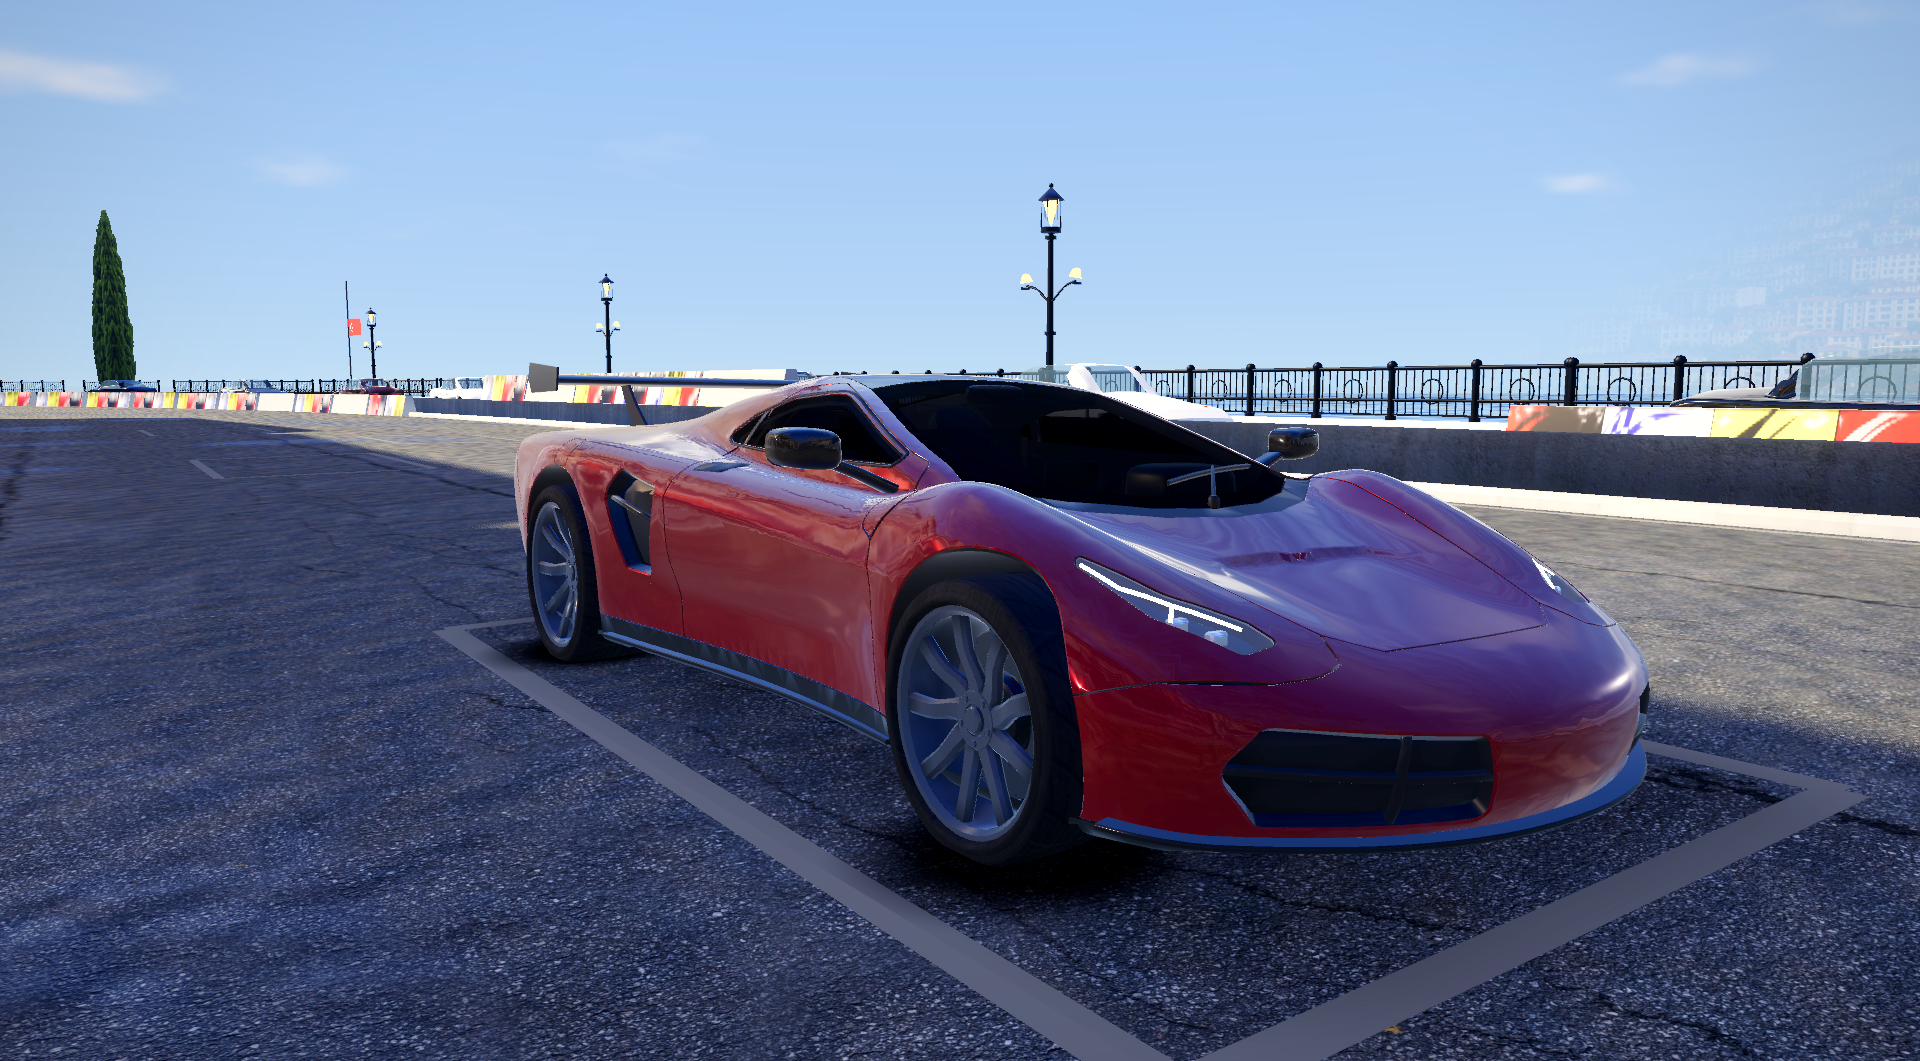
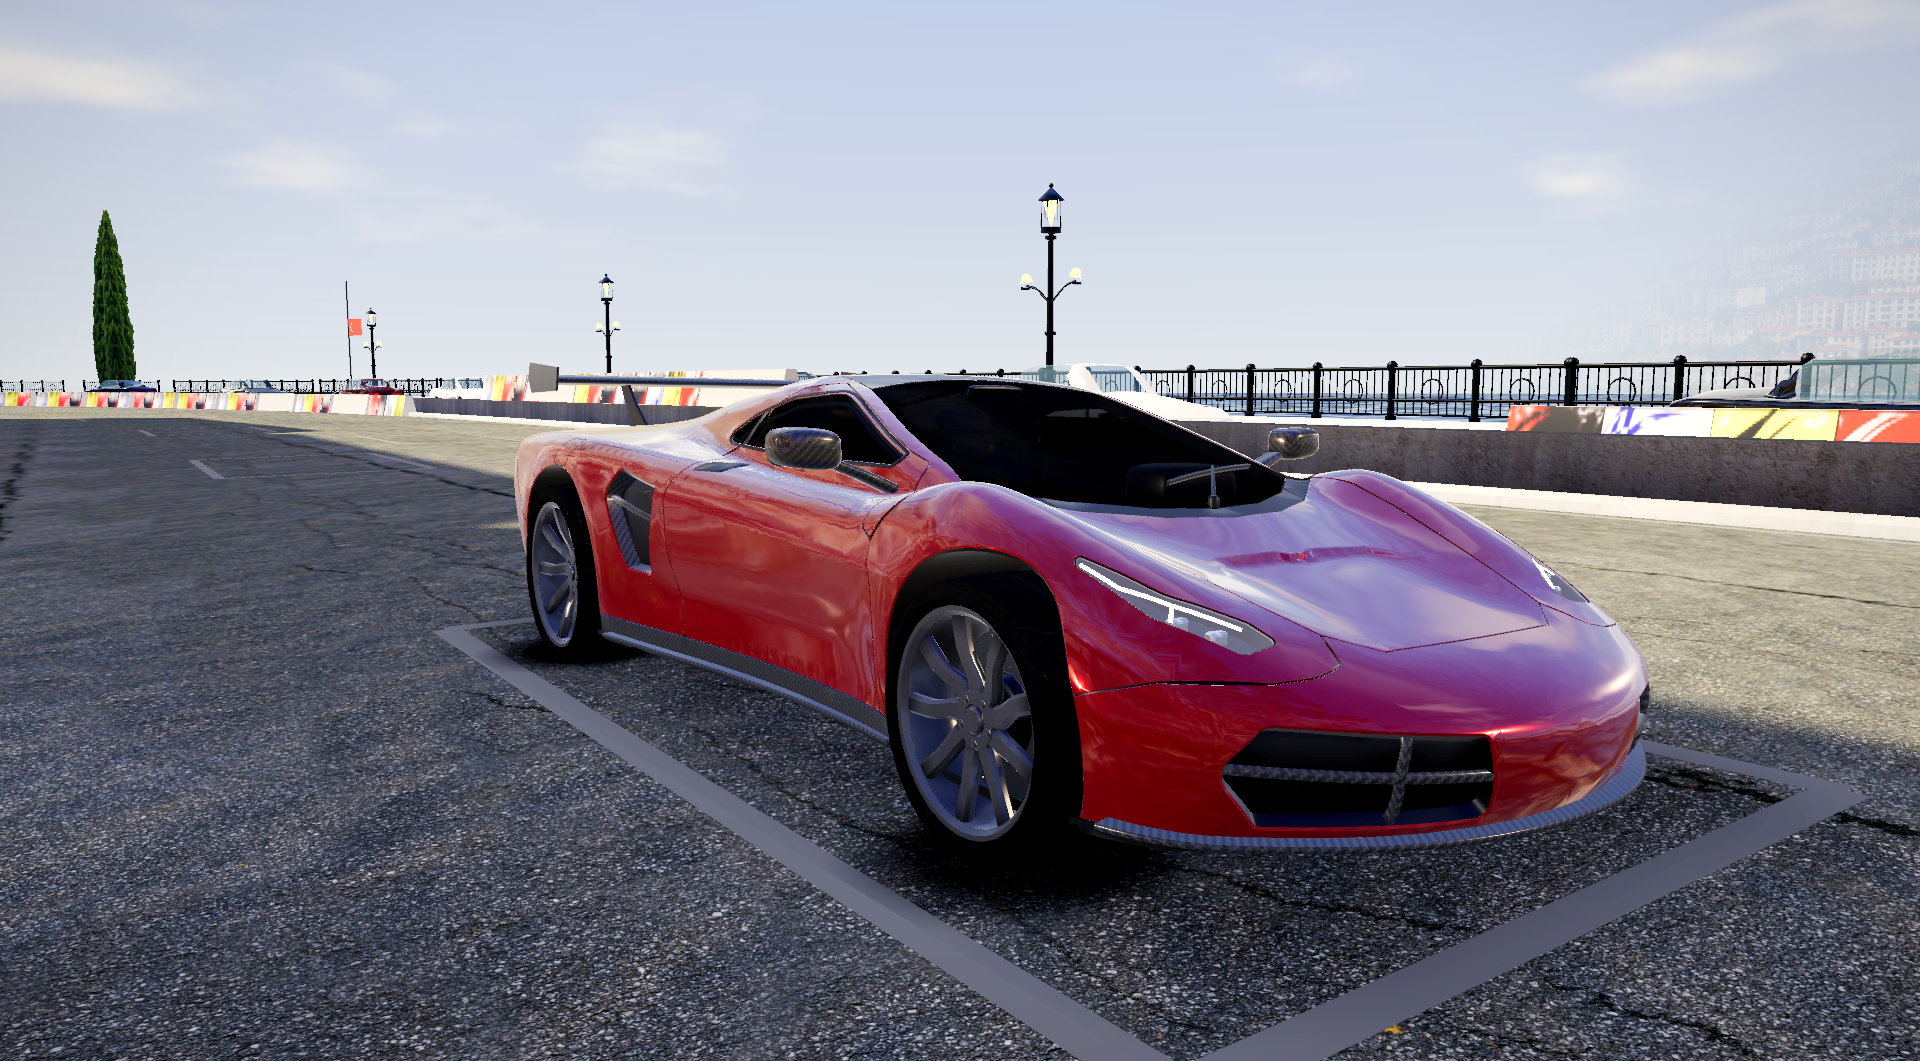
Day look: ACES white 6, real depth fog with aerial haze, hazy sky, street-dark ground half, dry asphalt and kerb specular per hour, warm car fill and rim, day fill direction fixed, sea per hour, neutral rims, mirror blur 5 taps
- TimeOfDay: tonemap white, glow bloom, fog density/aerial/sun scatter, mild grade, car reflection strength and sea uniforms per hour (night keeps the shipped values)
- wet_asphalt: specular_scale (day 0.3), dry roughness follows the macro tone, 9 -> 5 mirror taps at double spacing
- paving: specular_scale and a wet film (authored 0.8 = night)
- day_bounce: the warm fill now travels toward the sun side (it lit the sunlit faces)
- car materials: neutral rim albedo, metallic 0.75, crisper streak; tyre specular 0.25
- Evidence: ortakoy_benchmark day and night re-captured (dev PC, not phone numbers)

diff --git a/docs/status/OVERNIGHT_HANDOFF.md b/docs/status/OVERNIGHT_HANDOFF.md
@@ -1,0 +1,30 @@
+# Overnight handoff (2026-11-28)
+
+Brief: `docs/status/OVERNIGHT_MASTER.md`. Lead: Opus 5.5. Release candidate branch: `release/rc-2026-11-28`
+(pushed; worktree `.claude/worktrees/fable-graphics-visual-quality-105c41`).
+
+## Done and verified
+- 23:47 fetch; PR #8 (`integration/chatgpt-gameplay-2026-11-27`, one commit 31d04dc on a4c30a1) checked: mergeable,
+  its CI green (logic-tests and asset-validation, runs 46065339129 / 46065346897).
+- PR #8 merged once into the RC (d02fd4e). Local full suite: 355 tests, 0 failed; `tools/verify_test_evidence.py`
+  verified 355; asset manifest 657 records, 0 failing. Commits ce4b242, then the uid files.
+- Graphics audit (6 Opus auditors, each checked by an Opus verifier): digest kept outside the repo; the corrected
+  proposals are what the work packages implement.
+
+## In progress
+- Lead: day/sunset lighting (ACES white 6, real depth fog, hazy sky, street-dark ground half, warm car fill/rim,
+  day fill direction bug), dry asphalt and kerb specular per hour, mirror blur 9 -> 5 taps, sea colours per hour,
+  neutral rims, tyre sheen, paint street reflection per hour.
+- Haiku packages (worktrees `.claude/worktrees/wp-<key>`, branches `wp/<key>`), each reviewed by a Haiku reviewer and
+  an Opus lead reviewer: arch (photo rows: textured party walls, roofs, eaves, glass gloss, bridge), camera (framing,
+  orbit, FOV cap, nitro punch), online (LAN race, disabled by default), pursuit (opt-in mode, disabled by default),
+  drive (telemetry report, no physics change), perf (mirror diet, probes off on Low, shadow filter, Medium FXAA).
+
+## Commands
+- Tests: `godot --headless --audio-driver Dummy --fixed-fps 60 --path game -s res://tests/run_tests.gd`
+- Benchmark shots: `godot --path game --audio-driver Dummy --resolution 1920x1080 --position 20000,0 res://devtools/capture_boot.tscn -- --capture=ortakoy_benchmark`
+- Godot can hang at exit after a capture has finished (seen 2026-11-28 00:20); the capture line `[CAPTURE] ... exit=N`
+  is the result.
+
+## Pending
+- Merge reviewed packages into the RC, combined tests and captures, integration PR, final report.
